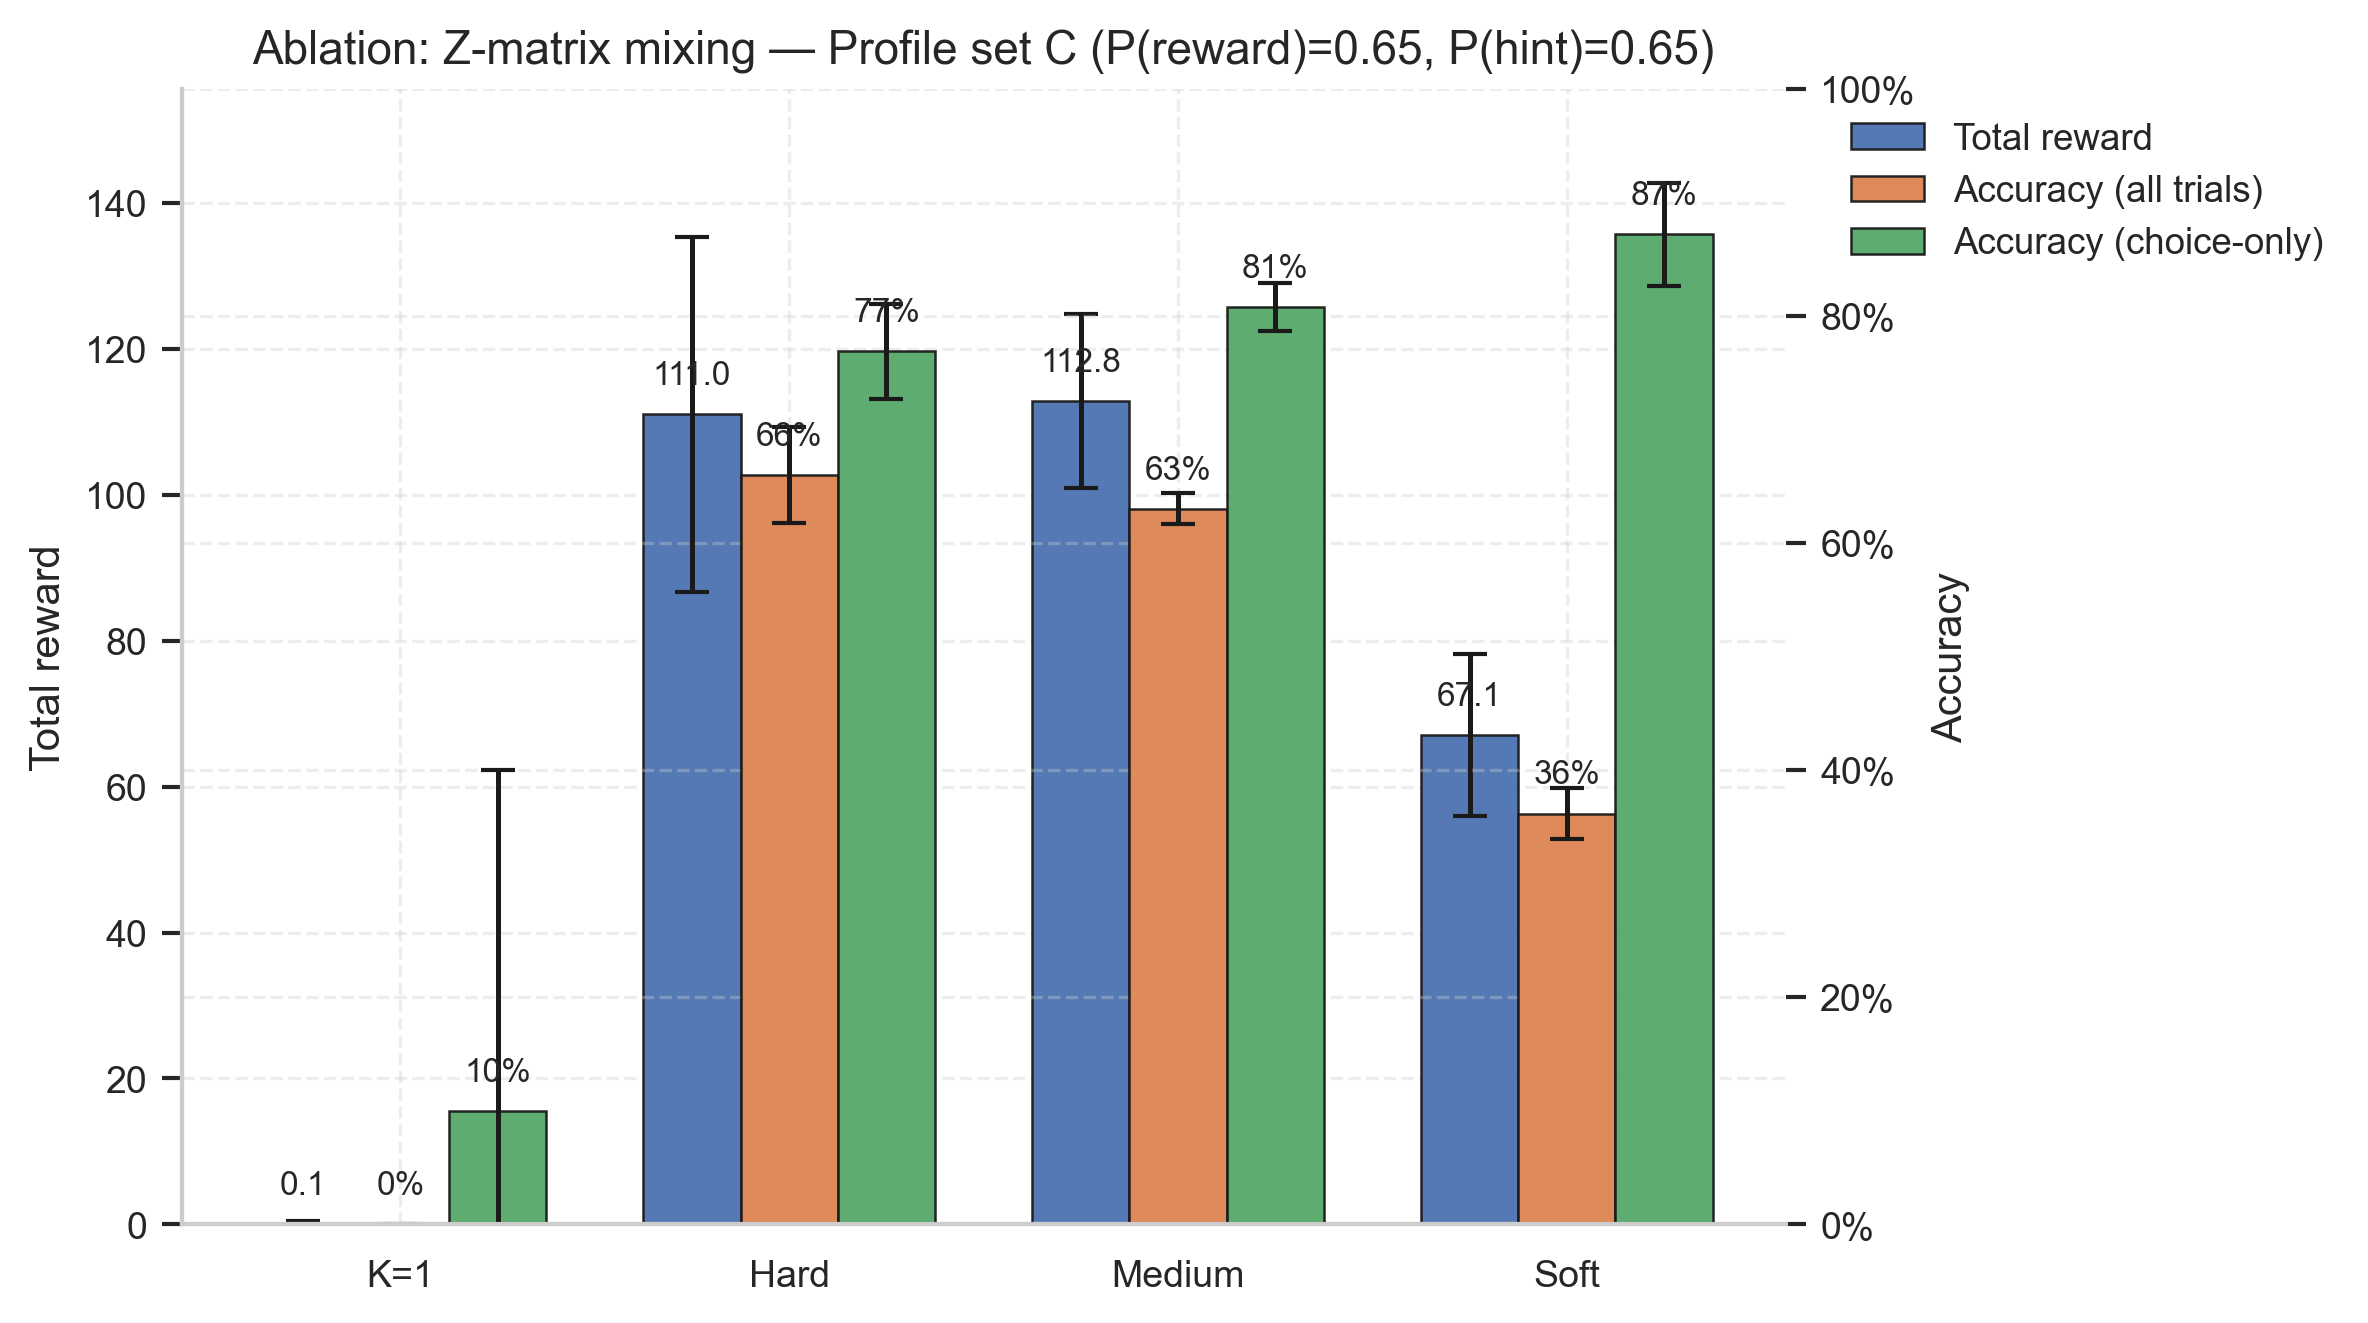
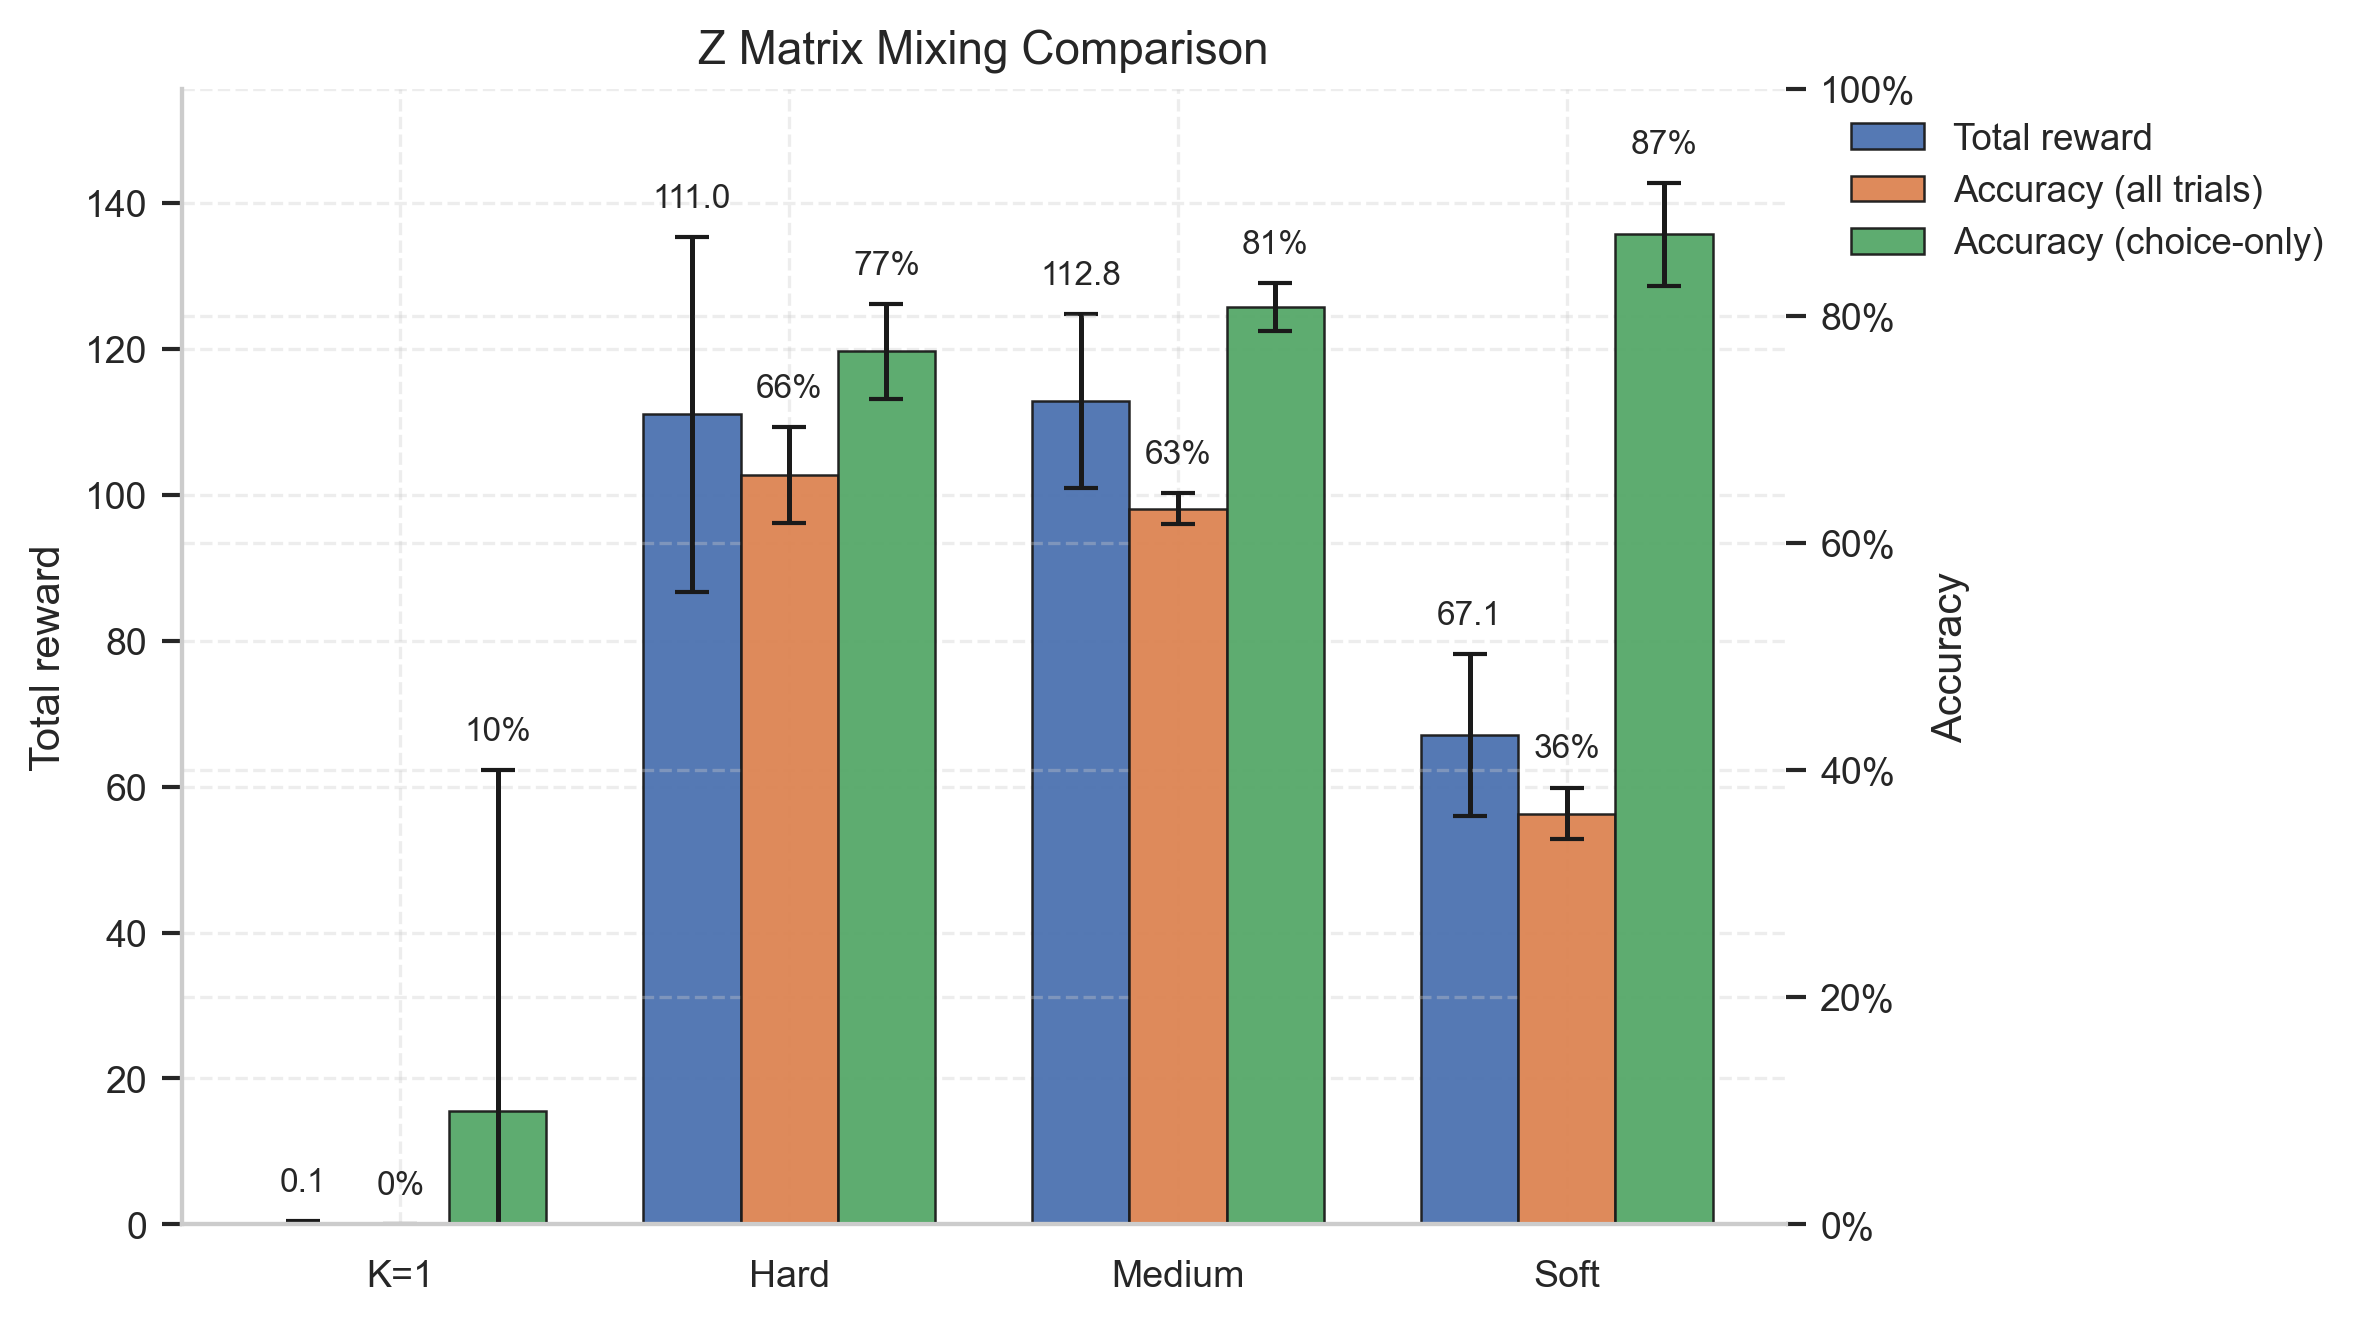
fixed figures

diff --git a/src/experiments/plot_hard_soft_z_from_npz.py b/src/experiments/plot_hard_soft_z_from_npz.py
@@ -103,7 +103,8 @@ def plot(results, outdir: Path, dpi=300):
     ax1.set_xticklabels(labels)
     ax1.set_ylabel('Total reward', fontsize=10)
     ax2.set_ylabel('Accuracy', fontsize=10)
-    ax1.set_title('Ablation: Z-matrix mixing — Profile set C (P(reward)=0.65, P(hint)=0.65)', fontsize=11)
+    # Cleaner, shorter title for publication
+    ax1.set_title('Z Matrix Mixing Comparison', fontsize=11)
 
     # Combine legends and place outside the plot area (clean for publication)
     h1, l1 = ax1.get_legend_handles_labels()
@@ -128,18 +129,28 @@ def plot(results, outdir: Path, dpi=300):
     ax2.tick_params(axis='y', which='major', labelsize=9)
 
     # Helper: add numeric labels
-    def autolabel(ax, bars, fmt="{:.2f}", pct=False):
-        """Attach a text label above each bar in *bars*, formatted.
+    def autolabel(ax, bars, errors=None, fmt="{:.2f}", pct=False):
+        """Attach a text label above each bar in *bars*.
 
+        If `errors` is provided (iterable matching bars), labels are placed
+        above the top of the error bar (height + error) to avoid overlap.
         If pct=True, format as percent (no decimals). Otherwise use fmt.
         """
         ymin, ymax = ax.get_ylim()
         y_range = ymax - ymin
         offset = 0.02 * y_range
 
-        for bar in bars:
+        for i, bar in enumerate(bars):
             h = bar.get_height()
-            y_pos = h + offset
+            err = 0.0
+            if errors is not None:
+                try:
+                    err = float(np.asarray(errors)[i])
+                except Exception:
+                    err = 0.0
+
+            # Place label above the error bar if present
+            y_pos = h + err + offset
 
             if pct:
                 txt = f"{h:.0%}"
@@ -149,9 +160,10 @@ def plot(results, outdir: Path, dpi=300):
             ax.text(bar.get_x() + bar.get_width() / 2., y_pos, txt,
                     ha='center', va='bottom', fontsize=8)
 
-    autolabel(ax1, bars1, "{:.1f}")
-    autolabel(ax2, bars2, pct=True)
-    autolabel(ax2, bars3, pct=True)
+    # Place labels above error bars by passing the std arrays
+    autolabel(ax1, bars1, errors=stds, fmt="{:.1f}")
+    autolabel(ax2, bars2, errors=acc_stds, pct=True)
+    autolabel(ax2, bars3, errors=cho_stds, pct=True)
 
     plt.tight_layout()
 
